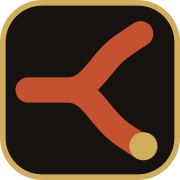
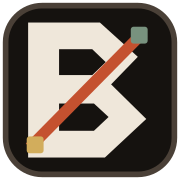
feat: standardize canonical Brucar identity

diff --git a/app/BrandIcon.tsx b/app/BrandIcon.tsx
@@ -5,17 +5,17 @@ type BrandIconProps = SVGProps<SVGSVGElement> & {
   title?: string;
 };
 
-export default function LinkSplitBrandIcon({ accent = "#d2ad5c", title, ...props }: BrandIconProps) {
+export default function LinkSplitBrandIcon({ title, ...props }: BrandIconProps) {
   const accessibility = title
     ? { role: "img" as const, "aria-label": title }
     : { "aria-hidden": true as const };
 
   return (
     <svg viewBox="0 0 64 64" fill="none" {...accessibility} {...props}>
-      <path d="M10 32h14" stroke="currentColor" strokeWidth="9" strokeLinecap="round" />
-      <path d="M24 32c9 0 11-10 20-16l6-4" stroke="currentColor" strokeWidth="9" strokeLinecap="round" strokeLinejoin="round" />
-      <path d="M24 32c9 0 11 10 20 16l6 4" stroke="currentColor" strokeWidth="9" strokeLinecap="round" strokeLinejoin="round" />
-      <circle cx="51" cy="52" r="5" fill={accent} />
+      <path fill="#efe7da" fillRule="evenodd" d="M8 6h27.5L50 19.2 39.6 29.7 53 42.8 37.4 58H8V6Zm13 10.5v10h12.3l5.2-5-5.2-5H21Zm0 20.8v10.2h13.1l5.5-5.2-5.5-5H21Z" />
+      <path d="M11 52 50.5 12" stroke="#c4512f" strokeWidth="4" strokeLinecap="square" />
+      <rect x="8.5" y="49.5" width="6" height="6" rx="1" fill="#d2ad5c" />
+      <rect x="47.5" y="8.5" width="6" height="6" rx="1" fill="#78927e" />
     </svg>
   );
 }

diff --git a/tests/logic.test.js b/tests/logic.test.js
@@ -86,7 +86,7 @@ test("Brucar Material Shell preserva identidade, versao e retorno ao Painel", ()
   assert.match(layout, /https:\/\/painel\.brucarventures\.com/);
   assert.match(layout, /favicon\.ico/);
   assert.match(layout, /apple-icon\.png/);
-  assert.match(version, /VERSION = "1\.0\.6"/);
+  assert.match(version, /VERSION = "1\.0\.7"/);
   assert.match(icon, /stroke="#c4512f"/);
   assert.match(icon, /fill="#d2ad5c"/);
 });

diff --git a/lib/version.ts b/lib/version.ts
@@ -1,1 +1,1 @@
-export const VERSION = "1.0.6";
+export const VERSION = "1.0.7";

diff --git a/CHANGELOG.md b/CHANGELOG.md
@@ -1,5 +1,12 @@
 # Changelog
 
+## [1.0.7] - 2026-08-08
+
+### Identidade Brucar
+
+- Unifica o monograma do cabeçalho, favicon e ícone Apple com a marca canônica Brucar.
+- Mantém a pátina como assinatura funcional de roteamento do produto.
+
 ## [1.0.6] - 2026-08-08
 
 ### Changed

diff --git a/README.md b/README.md
@@ -3,7 +3,7 @@
 Distribui o tráfego das suas campanhas (Facebook Ads etc.) **igualmente** entre
 várias páginas de destino, com **filtro de bots** para manter a divisão exata.
 
-Versão atual: **v1.0.6**.
+Versão atual: **v1.0.7**.
 
 ## Release v1.0.6
 
